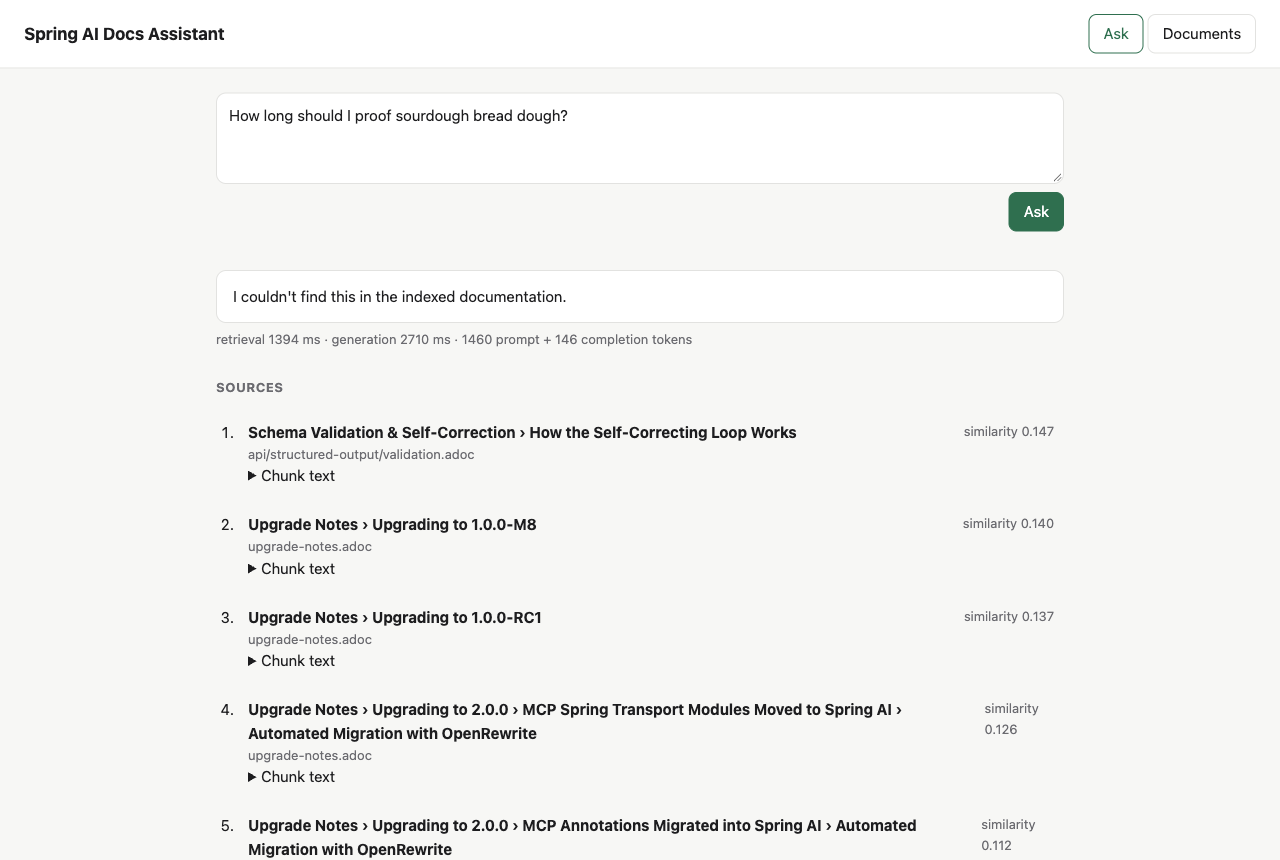
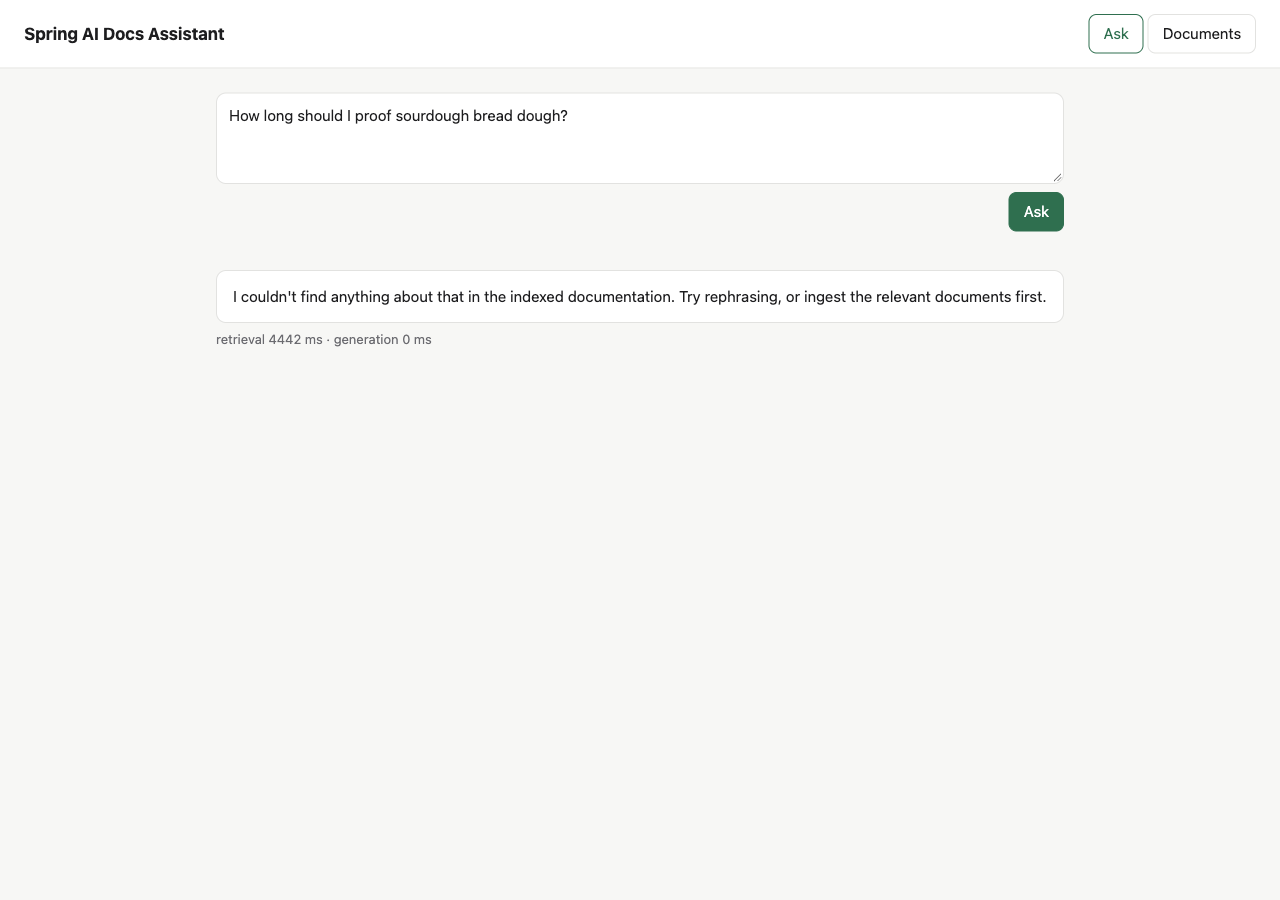
eval: M6 comparison of reranking and refusals; defaults chosen by the rules

diff --git a/src/test/java/com/learnings/rag/retrieval/RetrievalPipelineIT.java b/src/test/java/com/learnings/rag/retrieval/RetrievalPipelineIT.java
@@ -67,7 +67,7 @@ class RetrievalPipelineIT {
     @Test
     void ranksThePgvectorChunkFirstForAnIndexQuestion() {
         RetrievalResult result = pipeline.retrieve("Which index type is HNSW and how does it build its graph?",
-                RetrievalOptions.from(properties).withMode(RetrievalMode.VECTOR));
+                RetrievalOptions.from(properties).withMode(RetrievalMode.VECTOR).withRerank(false));
 
         assertThat(result.documents()).isNotEmpty().hasSizeLessThanOrEqualTo(5);
         assertThat(result.documents().getFirst().getMetadata()).containsEntry(ChunkMetadata.SOURCE_PATH, "pgvector.adoc");
@@ -95,7 +95,7 @@ class RetrievalPipelineIT {
     @Test
     void keywordModeFindsAnExactIdentifier() {
         RetrievalResult result = pipeline.retrieve("spring.ai.vectorstore.pgvector.index-type",
-                RetrievalOptions.from(properties).withMode(RetrievalMode.KEYWORD));
+                RetrievalOptions.from(properties).withMode(RetrievalMode.KEYWORD).withRerank(false));
 
         assertThat(result.documents().getFirst().getMetadata())
                 .containsEntry(ChunkMetadata.SOURCE_PATH, "pgvector.adoc")
@@ -106,7 +106,7 @@ class RetrievalPipelineIT {
     @Test
     void hybridModeFusesBothRetrieversIntoTopK() {
         RetrievalResult result = pipeline.retrieve("Which index type is HNSW and how does it build its graph?",
-                RetrievalOptions.from(properties).withMode(RetrievalMode.HYBRID));
+                RetrievalOptions.from(properties).withMode(RetrievalMode.HYBRID).withRerank(false));
 
         assertThat(result.documents()).isNotEmpty().hasSizeLessThanOrEqualTo(5)
                 .extracting(Document::getId).doesNotHaveDuplicates();
@@ -146,7 +146,7 @@ class RetrievalPipelineIT {
     void aRerankerReplyThatCannotBeParsedKeepsTheHybridOrder() {
         // The test context's stub chat model answers "Stub answer [1]." to every call, so reranking fails here.
         String question = "Which index type is HNSW and how does it build its graph?";
-        RetrievalOptions hybrid = RetrievalOptions.from(properties).withMode(RetrievalMode.HYBRID);
+        RetrievalOptions hybrid = RetrievalOptions.from(properties).withMode(RetrievalMode.HYBRID).withRerank(false);
 
         RetrievalResult plain = pipeline.retrieve(question, hybrid);
         RetrievalResult reranked = pipeline.retrieve(question, hybrid.withRerank(true).withMinScore(9));

diff --git a/README.md b/README.md
@@ -8,7 +8,7 @@ It is a learning project that aims for production-grade technique: each retrieva
 multi-query, reranking) gets added only after an evaluation harness can measure it against a golden set. The design is in
 [`docs/superpowers/specs/2026-10-05-rag-pipeline-design.md`](docs/superpowers/specs/2026-10-05-rag-pipeline-design.md).
 
-![A question about the HNSW index answered with clickable citations and ranked sources](docs/images/01-ask-cited-answer.png)
+![A question about the HNSW index answered with clickable citations, and sources with their relevance ratings](docs/images/01-ask-cited-answer.png)
 
 ## Contents
 
@@ -41,8 +41,8 @@ multi-query, reranking) gets added only after an evaluation harness can measure 
 | M3 | Golden set (generated, then reviewed) and an `EvalRunner` with retrieval metrics | ✅ done |
 | M4 | Keyword search (`tsvector`) plus reciprocal rank fusion: hybrid retrieval | ✅ done (hybrid is the default; see Evaluation) |
 | M5 | Query rewriting and multi-query expansion, parallel retrieval | ✅ done (both measured; off by default) |
-| M6 | LLM reranker with a minimum score, so off-topic questions are refused | next |
-| M7 | Generation evals (faithfulness, relevancy, citation validity), `/api/retrieve`, debug panel | planned |
+| M6 | LLM reranker with a minimum score, so off-topic questions are refused | ✅ done (on by default, min-score 6; see Evaluation) |
+| M7 | Generation evals (faithfulness, relevancy, citation validity), `/api/retrieve`, debug panel | next |
 | M8 | *(optional)* Local `ollama` profile | planned |
 
 The current pipeline is the **naive baseline** that M3's evaluation will measure. Every later milestone has to beat it on
@@ -103,7 +103,7 @@ open http://localhost:8081
 ### Ask a question
 
 Type a question and press **Ask**, or press <kbd>⌘</kbd>/<kbd>Ctrl</kbd>+<kbd>Enter</kbd>.
-1. While the five most similar chunks are retrieved, the status line reads *Retrieving…*.
+1. While the chunks are retrieved and rated (about 4 s with the reranker), the status line reads *Retrieving…*.
 2. The sources appear as soon as retrieval finishes.
 3. The answer then streams in. Under it, a line shows the retrieval and generation times and the token usage.
 
@@ -117,14 +117,20 @@ exact chunk text the model saw, including its contextual header:
 
 ### When the docs don't contain the answer
 
-The system prompt tells the model to say so instead of answering from general knowledge. In the next screenshot, all
-retrieved chunks have low similarity (about 0.15, compared with about 0.6 for on-topic questions):
+There are two guards:
+1. **The reranker's minimum score** (on by default).
+   - If no retrieved chunk is rated at least 6 out of 10, the app sends no sources and doesn't call the model. It
+     answers: *"I couldn't find anything about that in the indexed documentation. Try rephrasing, or ingest the
+     relevant documents first."*
+   - In the M6 eval, this refused 8 of 10 unanswerable questions and no answerable one. An empty index gives the same
+     answer.
 
-![An off-topic question gets "I couldn't find this in the indexed documentation."](docs/images/03-not-in-the-docs.png)
+   ![An off-topic question is refused before the answer model is called: no sources, generation 0 ms](docs/images/03-not-in-the-docs.png)
 
-If retrieval returns nothing at all (an empty index), the app answers without calling the model:
-*"I couldn't find anything about that in the indexed documentation. Try rephrasing, or ingest the relevant documents
-first."*
+2. **The prompt rule.** Sometimes chunks pass the minimum but don't contain the answer. The system prompt then tells the
+   model to say *"I couldn't find this in the indexed documentation."* instead of answering from general knowledge.
+   - This guards the questions the reranker lets through. For example, a question about a provider the docs don't
+     cover can look answered by another provider's settings.
 
 ### Manage documents
 
@@ -319,7 +325,9 @@ sequenceDiagram
     and keyword search
         R->>P: websearch_to_tsquery, ts_rank top-20
     end
-    R->>R: reciprocal rank fusion → top 5
+    R->>R: reciprocal rank fusion → 20 candidates
+    R->>O: rate 20 candidates 0–10 (utility model)
+    R->>R: drop below min-score → top 5
     R-->>A: documents + trace
     A-->>B: event: sources
     A->>O: stream(system rules + numbered sources + question)
@@ -337,8 +345,19 @@ sequenceDiagram
    - **Keyword search** (`KeywordRetriever`): Postgres full-text search over `content_tsv` returns the top 20. It uses
      `websearch_to_tsquery` with the terms OR-ed, ranked by length-normalised `ts_rank`.
 
-   **Fusion** (`ReciprocalRankFusion`, k = 60) merges the two rankings by rank alone and keeps the top-k (5). Both
-   searches only see chunks of the current embedding model. The `vector` and `keyword` modes run one retriever alone.
+   **Fusion** (`ReciprocalRankFusion`, k = 60) merges the two rankings by rank alone. It keeps the 20 best for the
+   reranker, or the top-k (5) when reranking is off. Both searches only see chunks of the current embedding model. The
+   `vector` and `keyword` modes run one retriever alone.
+
+   **Rerank** (`LlmReranker`, on by default since M6):
+   - One call to the utility model rates each of the 20 candidates from 0 to 10 for how well it answers the question
+     (see [`prompts/rerank.st`](src/main/resources/prompts/rerank.st)).
+   - Passages are numbered and escaped, so a chunk can't pose as another passage.
+   - The ratings are cleaned: clamped to 0–10, deduplicated, and unrated candidates score 0.
+   - Candidates rated below `min-score` (6) are dropped, and the best 5 are kept. If none is left, the question is
+     refused without calling the answer model.
+   - If the rating call fails, the fused order is kept and no minimum applies.
+   - It adds about 3 s per question.
 
    Before searching, the question can optionally be rewritten (`rag.retrieval.rewrite`) or expanded into extra phrasings
    (`rag.retrieval.query-variants`). Both use the utility model (`gpt-4.1-mini`). Each phrasing is then searched in
@@ -465,12 +484,14 @@ variables or `--name=value`.
 | `rag.chunking.min-tokens` | `50` | Smaller chunks merge into the next one. |
 | `rag.chunking.overlap-tokens` | `60` | Trailing prose repeated at the start of the next chunk. |
 | `rag.retrieval.top-k` | `5` | Chunks handed to the model. |
-| `rag.retrieval.similarity-threshold` | `0.0` | Minimum cosine similarity. M6's reranker will own refusals. |
+| `rag.retrieval.similarity-threshold` | `0.0` | Minimum cosine similarity. Refusals come from the reranker's minimum score (`rag.retrieval.rerank.min-score`). |
 | `rag.retrieval.mode` | `hybrid` | `vector`, `keyword` or `hybrid` (both in parallel, fused with RRF k=60). Chosen by the M4 eval. |
-| `rag.retrieval.candidates` | `20` | Hybrid: chunks each retriever contributes before fusion. |
+| `rag.retrieval.candidates` | `20` | Hybrid: chunks each retriever contributes before fusion, and the reranker's input. |
 | `rag.retrieval.rewrite` | `false` | Rewrite the question with the utility model before searching. Off: it lowered MRR@10 in the M5 eval. |
 | `rag.retrieval.query-variants` | `0` | Extra phrasings searched in parallel and fused across queries (0 = off). Off: it lowered MRR@10 in the M5 eval. |
-| `rag.retrieval.utility-model` | `gpt-4.1-mini` | Model for rewriting and expansion. It must accept temperature 0, which gpt-5 models do not. |
+| `rag.retrieval.utility-model` | `gpt-4.1-mini` | Model for rewriting, expansion and reranking. It must accept temperature 0, which gpt-5 models do not. |
+| `rag.retrieval.rerank.enabled` | `true` | Rate the candidates 0–10 with the utility model and keep the best top-k. On: it raised MRR@10 from 0.905 to 0.976 in the M6 eval, at about 3 s per question. |
+| `rag.retrieval.rerank.min-score` | `6` | Candidates rated below this are dropped; if none is left, the app answers "I couldn't find…" without calling the answer model. Chosen by the M6 rule: it refused 8 of 10 unanswerable questions, with no false refusals. |
 | `server.port` / `server.address` | `8081` / `127.0.0.1` | Loopback only, because there is no authentication. |
 | `spring.servlet.multipart.max-file-size` | `20MB` | Upload limit. |
 | `spring.mvc.async.request-timeout` | `5m` | Tomcat's 30-second default would cut off long streamed answers. |
@@ -568,26 +589,29 @@ reviewed by Claude at the user's request rather than by a human:
 ./mvnw spring-boot:run -Dspring-boot.run.profiles=eval     # report: eval/reports/<time>.md + .json
 ```
 
-The eval reports hit@5, recall@5, MRR@10 and p50/p95 retrieval latency for each retrieval configuration. Golden
+The eval reports hit@5, recall@5, MRR@10, refusal counts and p50/p95 retrieval latency for each retrieval configuration. Golden
 labels name a page and a heading path, not chunk ids, so the set survives re-chunking.
 
-**M5 comparison (63 questions, 2026-10-06):**
+**M6 comparison (63 answerable + 10 unanswerable questions, 2026-10-07):**
 
-| Config | hit@5 | recall@5 | MRR@10 | p50 ms | p95 ms |
-|---|---|---|---|---|---|
-| vector | 0.984 | 0.971 | 0.851 | 500 | 658 |
-| keyword | 0.952 | 0.942 | 0.830 | 18 | 40 |
-| hybrid | 0.984 | 0.979 | 0.905 | 492 | 673 |
-| hybrid+rewrite | 0.921 | 0.915 | 0.784 | 1464 | 1744 |
-| hybrid+multiquery | 0.968 | 0.963 | 0.842 | 2032 | 2325 |
-| hybrid+rewrite+multiquery | 0.952 | 0.947 | 0.761 | 2982 | 3289 |
+| Config | hit@5 | recall@5 | MRR@10 | refused: unanswerable | refused: answerable | p50 ms | p95 ms |
+|---|---|---|---|---|---|---|---|
+| vector | 0.984 | 0.971 | 0.851 | 0/10 | 0 | 486 | 1059 |
+| keyword | 0.952 | 0.942 | 0.830 | 0/10 | 0 | 17 | 44 |
+| hybrid | 0.984 | 0.979 | 0.905 | 0/10 | 0 | 467 | 561 |
+| hybrid+multiquery | 0.968 | 0.963 | 0.829 | 0/10 | 0 | 1860 | 2346 |
+| hybrid+rerank | 0.984 | 0.984 | 0.976 | 0/10 | 0 | 3782 | 4805 |
+| hybrid+multiquery+rerank | 0.984 | 0.979 | 0.937 | 0/10 | 0 | 5082 | 5768 |
 
-Hybrid retrieval stays the default (chosen in M4). Rewriting and multi-query expansion are implemented
-(`rag.retrieval.rewrite`, `rag.retrieval.query-variants`) but stay **off**: both scored below plain hybrid in a single
-run and multiplied retrieval latency 3–6×. Both the rewrites and the expansion variants tended to add generic "Spring
-AI" / "Spring Boot" terms; that is an association, not a measured cause. Details, the per-tag results and the next
-ideas are in
-[`eval/README.md`](eval/README.md#m5-rewriting-and-multi-query). The golden set is AI-reviewed.
+**Reranking is now on by default, with min-score 6.** Rules fixed before the run chose these settings, and a second
+run confirmed them:
+- MRR@10 rises from 0.905 to 0.976 (0.952 in run 2);
+- 8 of 10 unanswerable questions are refused, with no false refusals;
+- retrieval takes about 3 s longer.
+
+Hybrid retrieval stays the default (M4), and rewriting and multi-query stay off (M5). The details, the min-score
+sweeps and the earlier milestones' results are in [`eval/README.md`](eval/README.md#m6-reranking-and-refusals). The
+golden set is AI-reviewed.
 
 ## Design decisions
 
@@ -610,9 +634,12 @@ The full reasoning is in the design spec, including its **Amendments** section. 
 - **No authentication, authorization or rate limiting.** These are intentionally out of scope for this learning project,
   and the app binds to `127.0.0.1`.
 - **Ingestion is synchronous:** a first full sync keeps the request open for about 90 s.
-- **No hard relevance cutoff yet:** an off-topic question is refused only by the prompt rule. If the corpus happens to
-  contain the fact (it does contain "Paris is the capital city of France" in a code example), the model answers with a
-  citation. M6 adds a reranker with a minimum score.
+- **The reranker is an LLM judge.**
+  - Its ratings vary between runs: MRR@10 was 0.976 and 0.952 in two identical eval runs.
+  - It can rate another product's settings as an answer. In the eval, questions about watsonx and Couchbase got
+    through, matched to OpenAI's and PGvector's configuration. Those fall back to the prompt rule.
+  - Like any LLM judge, it may favour the passages shown first (they are shown in fused order). This wasn't measured.
+  - It adds about 3 s per question.
 - **Uploads can't be re-embedded automatically:** only their chunks are stored, not the original text. After an
   embedding-model switch, upload them again.
 - **Merged sections lose sub-heading names:** when small sections are merged, only their shared breadcrumb is kept, so
@@ -647,7 +674,6 @@ previous configuration.
      reuse the chunk's wording.
   2. A human reviews them into `eval/golden-set.json`.
   3. `EvalRunner` (`eval` profile) reports hit@5, recall@5, MRR@10 and p50/p95 latency.
-- **M6:** an `LlmReranker` with a minimum score, so off-topic questions are refused.
 - **M7:** faithfulness and relevancy evaluators, citation validity, `POST /api/retrieve` and a debug panel in the UI.
 - **M8 (optional):** an `ollama` profile with local models.
 

diff --git a/eval/README.md b/eval/README.md
@@ -92,6 +92,138 @@ hit@5, recall@5, MRR@10 and latency cover only the answerable questions.
   the corpus doesn't answer them. They measure refusals; hit@5, recall@5, MRR@10 and latency still cover the 63
   answerable questions, so the numbers stay comparable with v3.
 
+## M6: reranking and refusals
+
+Recorded on 2026-10-07 from `eval/reports/2026-10-07T03-58-23Z.md` (run 1; golden set v4: 63 answerable and 10
+unanswerable questions; reranker `gpt-4.1-mini` at temperature 0):
+
+| | |
+|---|---|
+| Golden set | `eval/golden-set.json` (73 questions, sha256 `8eda988add77…`) |
+| Index | 51 corpus pages, 0 uploads, 1106 chunks |
+| Embedding model | `text-embedding-3-small` |
+| Chunking | max 500 · min 50 · overlap 60 tokens |
+
+| Config | hit@5 | recall@5 | MRR@10 | refused: unanswerable | refused: answerable | p50 ms | p95 ms |
+|---|---|---|---|---|---|---|---|
+| vector | 0.984 | 0.971 | 0.851 | 0/10 | 0 | 486 | 1059 |
+| keyword | 0.952 | 0.942 | 0.830 | 0/10 | 0 | 17 | 44 |
+| hybrid | 0.984 | 0.979 | 0.905 | 0/10 | 0 | 467 | 561 |
+| hybrid+multiquery | 0.968 | 0.963 | 0.829 | 0/10 | 0 | 1860 | 2346 |
+| hybrid+rerank | 0.984 | 0.984 | 0.976 | 0/10 | 0 | 3782 | 4805 |
+| hybrid+multiquery+rerank | 0.984 | 0.979 | 0.937 | 0/10 | 0 | 5082 | 5768 |
+
+Answerable questions: 63; hit@5, recall@5, MRR@10 and latency cover these. *Refused* = retrieval came back empty, so chat answers "I couldn't find…" without calling the model.
+
+Queries searched per question (average): vector 1.0 · keyword 1.0 · hybrid 1.0 · hybrid+multiquery 4.0 (expansion fell back on 0) · hybrid+rerank 1.0 · hybrid+multiquery+rerank 4.0 (expansion fell back on 0)
+
+Rerank fell back to the fused order (questions): hybrid+rerank 0 · hybrid+multiquery+rerank 0
+
+| Config | Tag | Items | hit@5 | recall@5 | MRR@10 |
+|---|---|---|---|---|---|
+| vector | conversational | 10 | 1.000 | 1.000 | 0.783 |
+| vector | identifier | 13 | 1.000 | 0.962 | 0.753 |
+| vector | untagged | 40 | 0.975 | 0.967 | 0.900 |
+| keyword | conversational | 10 | 0.900 | 0.900 | 0.781 |
+| keyword | identifier | 13 | 1.000 | 1.000 | 1.000 |
+| keyword | untagged | 40 | 0.950 | 0.933 | 0.788 |
+| hybrid | conversational | 10 | 1.000 | 1.000 | 0.850 |
+| hybrid | identifier | 13 | 1.000 | 1.000 | 0.962 |
+| hybrid | untagged | 40 | 0.975 | 0.967 | 0.900 |
+| hybrid+multiquery | conversational | 10 | 1.000 | 1.000 | 0.733 |
+| hybrid+multiquery | identifier | 13 | 1.000 | 1.000 | 0.904 |
+| hybrid+multiquery | untagged | 40 | 0.950 | 0.942 | 0.829 |
+| hybrid+rerank | conversational | 10 | 1.000 | 1.000 | 0.950 |
+| hybrid+rerank | identifier | 13 | 1.000 | 1.000 | 1.000 |
+| hybrid+rerank | untagged | 40 | 0.975 | 0.975 | 0.975 |
+| hybrid+multiquery+rerank | conversational | 10 | 1.000 | 1.000 | 1.000 |
+| hybrid+multiquery+rerank | identifier | 13 | 1.000 | 1.000 | 0.923 |
+| hybrid+multiquery+rerank | untagged | 40 | 0.975 | 0.967 | 0.925 |
+
+**`hybrid+rerank`: min-score sweep** (run 1). Each row is what the run would have scored with
+`rag.retrieval.rerank.min-score` at that value:
+
+| min-score | hit@5 | recall@5 | MRR@10 | refused: unanswerable | refused: answerable |
+|---|---|---|---|---|---|
+| 0 | 0.984 | 0.984 | 0.976 | 0/10 | 0 |
+| 1 | 0.984 | 0.984 | 0.976 | 4/10 | 0 |
+| 2 | 0.984 | 0.984 | 0.976 | 5/10 | 0 |
+| 3 | 0.984 | 0.984 | 0.976 | 5/10 | 0 |
+| 4 | 0.984 | 0.984 | 0.976 | 6/10 | 0 |
+| 5 | 0.984 | 0.984 | 0.976 | 6/10 | 0 |
+| 6 | 0.984 | 0.984 | 0.976 | 8/10 | 0 |
+| 7 | 0.984 | 0.968 | 0.976 | 8/10 | 0 |
+| 8 | 0.968 | 0.937 | 0.960 | 8/10 | 1 |
+| 9 | 0.952 | 0.902 | 0.944 | 8/10 | 2 |
+| 10 | 0.746 | 0.688 | 0.746 | 10/10 | 14 |
+
+**`hybrid+multiquery+rerank`: min-score sweep** (run 1):
+
+| min-score | hit@5 | recall@5 | MRR@10 | refused: unanswerable | refused: answerable |
+|---|---|---|---|---|---|
+| 0 | 0.984 | 0.979 | 0.937 | 0/10 | 0 |
+| 1 | 0.984 | 0.979 | 0.937 | 5/10 | 0 |
+| 2 | 0.984 | 0.979 | 0.937 | 5/10 | 0 |
+| 3 | 0.984 | 0.979 | 0.937 | 5/10 | 0 |
+| 4 | 0.984 | 0.979 | 0.937 | 6/10 | 0 |
+| 5 | 0.984 | 0.979 | 0.937 | 6/10 | 0 |
+| 6 | 0.984 | 0.971 | 0.937 | 7/10 | 0 |
+| 7 | 0.984 | 0.963 | 0.937 | 8/10 | 0 |
+| 8 | 0.984 | 0.955 | 0.937 | 8/10 | 0 |
+| 9 | 0.937 | 0.894 | 0.897 | 8/10 | 2 |
+| 10 | 0.698 | 0.656 | 0.683 | 9/10 | 16 |
+
+**Run 2, the stability check** (`eval/reports/2026-10-07T04-13-41Z.md`), summary rows at min-score 0:
+
+| Config | hit@5 | recall@5 | MRR@10 | refused: unanswerable | refused: answerable | p50 ms | p95 ms |
+|---|---|---|---|---|---|---|---|
+| hybrid | 0.984 | 0.979 | 0.905 | 0/10 | 0 | 457 | 557 |
+| hybrid+rerank | 0.984 | 0.984 | 0.952 | 0/10 | 0 | 3578 | 4185 |
+| hybrid+multiquery+rerank | 0.984 | 0.979 | 0.944 | 0/10 | 0 | 5291 | 6424 |
+
+In run 2, `hybrid+rerank` at min-score 6 scores hit@5 0.984, recall@5 0.984 and MRR@10 0.952, and refuses 8/10
+unanswerable questions and 0 answerable ones.
+
+**Defaults: reranking is on, with min-score 6.** The rules fixed before the run (spec amendment 37) chose
+`hybrid+rerank` at min-score 6:
+- **Rule T (min-score):** in run 1, min-scores 0–7 keep hit@5 and recall@5 within 1/63 of min-score 0. At 8, recall@5
+  falls to 0.937 and an answerable question is refused. Both 6 and 7 refuse 8 of 10 unanswerable questions, so the
+  lower one, 6, wins. For `hybrid+multiquery+rerank`, rule T picks 7.
+- **Rule D (default):** at min-score 6, hit@5 0.984 equals hybrid's, and MRR@10 0.976 beats hybrid's 0.905 by 0.071,
+  more than four questions' worth (1/63 ≈ 0.016). It also refuses 8 of 10. Both rerank rows qualify, and
+  `hybrid+multiquery+rerank` (MRR@10 0.937) doesn't beat `hybrid+rerank` by 1/63, so the cheaper one wins.
+- **Stability:** run 2, on its own, picks the same configuration and the same min-score. At 6 it qualifies again:
+  MRR@10 0.952 against hybrid's 0.905, 8 of 10 refused, no false refusals.
+
+What the numbers show:
+
+- **Reranking fixed the order, not the coverage.**
+  - It moved 8 answerable questions up and none down: `q10` and `h03` from rank 4 to 1, and six others from rank 2
+    to 1.
+  - MRR@10 rose on every tag: conversational 0.850 → 0.950, identifier 0.962 → 1.000, untagged 0.900 → 0.975.
+  - hit@5 stays at 0.984. The one miss is still `q32`: every retrieved chunk comes from the right page (Neo4j, rated
+    9–10), but none from the expected section.
+- **Refusals: 8 of 10 at min-score 6, with no false refusals in either run.**
+  - The off-topic questions (`u01`–`u03`) and the Hibernate one (`u09`) get top ratings of 0. Pinecone (`u06`) gets 1,
+    the cron job (`u10`) 3, and fine-tuning (`u07`) and Spring Batch (`u08`) 5.
+  - Two near-domain questions get through. watsonx (`u04`) is matched to OpenAI's chat properties, and Couchbase
+    (`u05`) to PGvector's auto-configuration, both rated 8–9. The judge treats the same kind of answer for another
+    product as an answer. For those, the answer prompt's own "couldn't find" rule is the remaining guard; M7 measures
+    it.
+  - **The margin is narrow.** The lowest top rating of an answerable question is 7 (`i03`, in both runs), while
+    refused near-domain questions reach 5. From 8 up, answerable questions start being refused.
+- **The cost is about 3 s per question.**
+  - p50 retrieval goes from 0.47 s to 3.8 s (3.6 s in run 2). One `gpt-4.1-mini` call reads about 4,000 tokens of
+    passages and writes 20 ratings.
+  - Chat now shows its sources after about 4 s instead of 0.5 s.
+  - A refused question costs the same retrieval time but no answer-model call.
+- **Reranking partly rescues multi-query.** It lifts MRR@10 from 0.829 to 0.937 (0.850 to 0.944 in run 2), but stays
+  below rerank alone and costs another 1.3 s. Multi-query stays off.
+- **Run-to-run variance is visible.**
+  - `hybrid+rerank`'s MRR@10 was 0.976 in run 1 and 0.952 in run 2.
+  - Multi-query alone scored 0.829 and 0.850, and 0.842 in M5.
+  - The decision held in both runs.
+
 ## M5: rewriting and multi-query
 
 Recorded on 2026-10-06 from `eval/reports/2026-10-06T10-56-23Z.md` (golden set v3, 63 questions; utility model `gpt-4.1-mini` at temperature 0):

diff --git a/docs/superpowers/specs/2026-10-05-rag-pipeline-design.md b/docs/superpowers/specs/2026-10-05-rag-pipeline-design.md
@@ -365,6 +365,16 @@ Run TDD inside each milestone (superpowers:test-driven-development). Pause at M3
       - It is adopted only if the winner also qualifies in run 2 at run 1's min-score.
       - Otherwise reranking stays off.
     - **Adoption:** the winner's settings become the defaults. Latency is reported, not capped.
+    - **Outcome** (run 1 2026-10-07T03-58-23Z, run 2 2026-10-07T04-13-41Z): **`hybrid+rerank` at min-score 6 becomes
+      the default.**
+      - Rule T: min-score 6 for `hybrid+rerank` and 7 for `hybrid+multiquery+rerank`. Min-scores 0–7 kept hit@5 and
+        recall@5 within 1/63; 6 and 7 both refuse 8 of 10.
+      - Rule D, run 1: hit@5 0.984 (hybrid 0.984), MRR@10 0.976 (hybrid 0.905), 8/10 refused, 0 false refusals. Both
+        candidates qualified; multi-query + rerank (MRR@10 0.937) didn't beat it by 1/63.
+      - Run 2 picked the same winner and min-score on its own: MRR@10 0.952 (hybrid 0.905), 8/10 refused, 0 false.
+      - p50 retrieval latency: 3.8 s (run 2: 3.6 s), against 0.47 s for hybrid.
+      - The two unanswerable questions that got through (watsonx, Couchbase) were matched to another product's
+        configuration and rated 8–9.
 
 **Scope decision (2026-10-05):** this stays a learning project. Production hardening (auth, document ACLs, rate limits,
 async ingestion jobs, CI eval gates, deployment) is intentionally out of scope.
